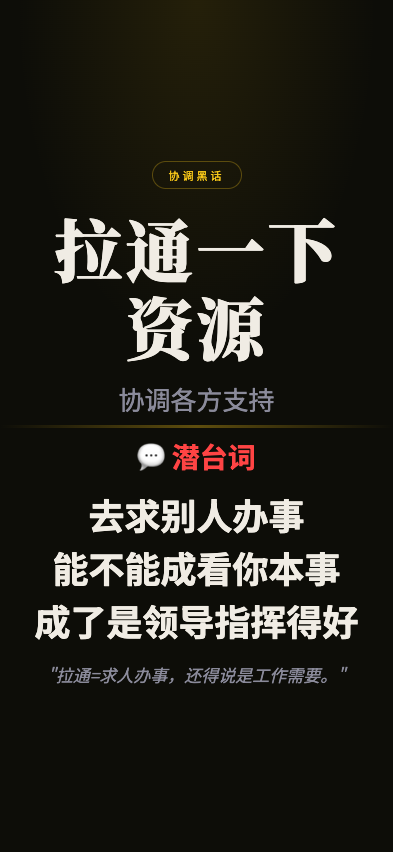
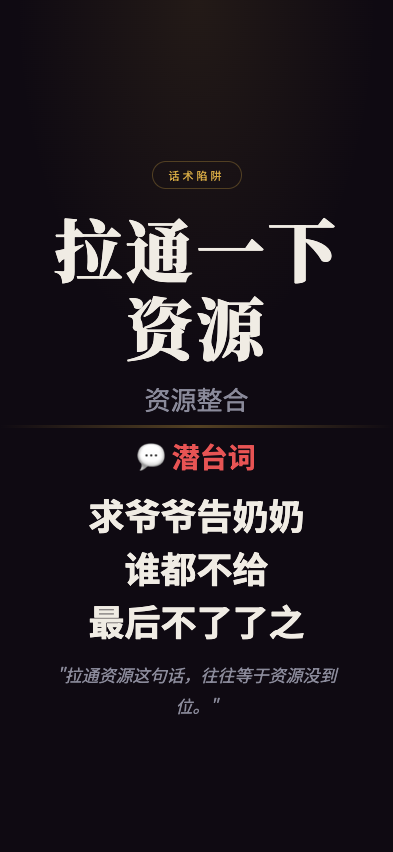
feat: 职场生存法则 screenshot - latongyixiaziyuan

Changed region(s): [[0.0916, 0.5798, 0.916, 0.8545], [0.3053, 0.4577, 0.7023, 0.4883], [0.4275, 0.1831, 0.5802, 0.2136]]

diff --git a/wuliao-tools/tools/biz-speak/scenes/latongyixiaziyuan.html b/wuliao-tools/tools/biz-speak/scenes/latongyixiaziyuan.html
@@ -7,11 +7,11 @@
 <link href="https://fonts.googleapis.com/css2?family=Noto+Serif+SC:wght@400;700;900&family=Noto+Sans+SC:wght@300;400;700&display=swap" rel="stylesheet">
 <style>
   :root {
-    --bg: #0d0d08;
+    --bg: #0f0a12;
     --text: #f0ece4;
     --text-dim: #8a8a9a;
-    --gold: #f5c518;
-    --red: #ff4444;
+    --gold: #d4a843;
+    --red: #e85454;
   }
   * { margin:0; padding:0; box-sizing:border-box; }
   html, body { width:100%; height:100%; overflow:hidden; }
@@ -24,11 +24,11 @@
   }
   body::before {
     content:''; position:absolute; top:0; left:0; right:0; height:45%;
-    background:radial-gradient(ellipse at 50% 0%, rgba(245,197,24,0.1) 0%, transparent 65%);
+    background:radial-gradient(ellipse at 50% 0%, rgba(212,168,67,0.1) 0%, transparent 65%);
     pointer-events:none; z-index:0;
   }
   .top { flex:1; display:flex; flex-direction:column; align-items:center; justify-content:flex-end; padding:4px 28px 8px; position:relative; z-index:1; }
-  .tag { font-size:11px; letter-spacing:3px; color:var(--gold); border:1px solid rgba(245,197,24,0.3); padding:5px 16px; border-radius:50px; margin-bottom:20px; }
+  .tag { font-size:11px; letter-spacing:3px; color:var(--gold); border:1px solid rgba(212,168,67,0.3); padding:5px 16px; border-radius:50px; margin-bottom:20px; }
   .main-title { font-family:'Noto Serif SC'; font-size:68px; font-weight:900; text-align:center; line-height:1.15; letter-spacing:3px; min-width:0; overflow-wrap:break-word; max-width:92%; }
   .sub-title { font-size:26px; color:var(--text-dim); text-align:center; margin-top:14px; }
   .divider { width:100%; height:3px; background:linear-gradient(90deg,transparent,var(--gold),transparent); opacity:0.35; flex-shrink:0; position:relative; z-index:1; }
@@ -41,19 +41,19 @@
 </head>
 <body>
   <div class="top">
-    <div class="tag">协调黑话</div>
+    <div class="tag">话术陷阱</div>
     <div class="main-title">拉通一下资源</div>
-    <div class="sub-title">协调各方支持</div>
+    <div class="sub-title">资源整合</div>
   </div>
   <div class="divider"></div>
   <div class="bottom">
     <div class="truth-label">💬 潜台词</div>
     <div class="truth-lines">
-      <div class="truth-line">去求别人办事</div>
-      <div class="truth-line">能不能成看你本事</div>
-      <div class="truth-line">成了是领导指挥得好</div>
+      <div class="truth-line">求爷爷告奶奶</div>
+      <div class="truth-line">谁都不给</div>
+      <div class="truth-line">最后不了了之</div>
     </div>
-    <div class="quote">"拉通=求人办事，还得说是工作需要。"</div>
+    <div class="quote">"拉通资源这句话，往往等于资源没到位。"</div>
   </div>
 </body>
 </html>
